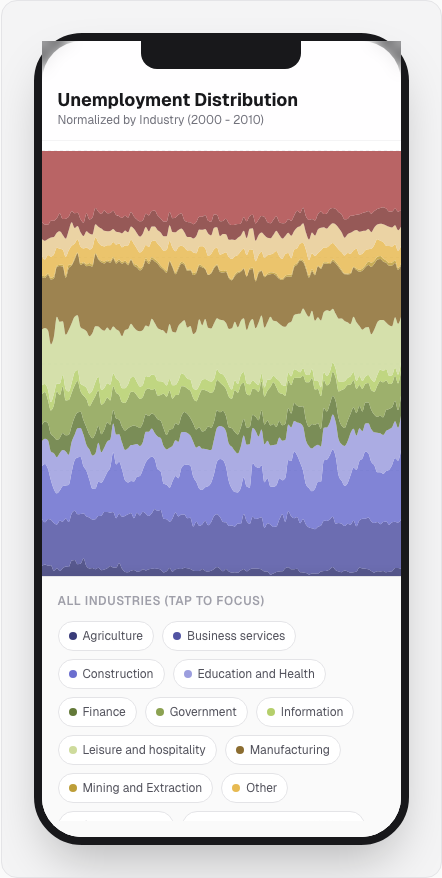
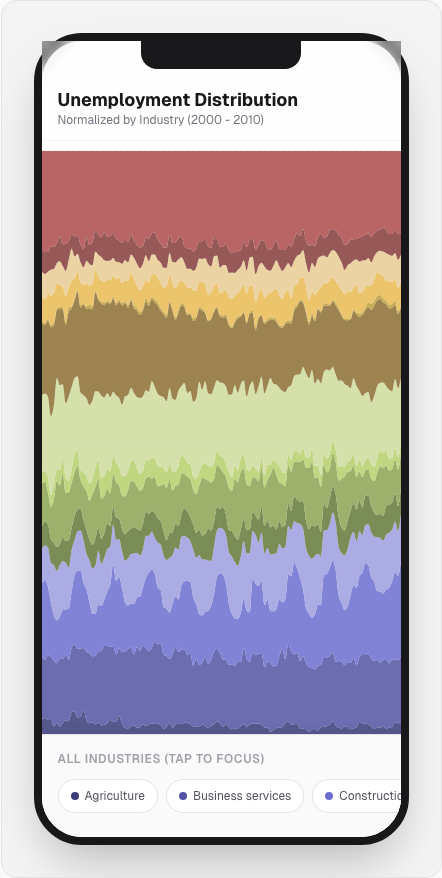
finish vega-lite-01

diff --git a/vega-mobile-projects/vega-lite-01/src/components/Visualization.tsx b/vega-mobile-projects/vega-lite-01/src/components/Visualization.tsx
@@ -1,7 +1,7 @@
 "use client";
 
 import clsx from "clsx";
-import React, { useEffect, useMemo, useState } from "react";
+import { useEffect, useMemo, useState } from "react";
 import {
   Area,
   AreaChart,
@@ -99,8 +99,7 @@ export function Visualization() {
 
   // 2. Process Data (Pivot)
   const { chartData, industries } = useMemo(() => {
-    if (!rawData.length)
-      return { chartData: [], industries: [] };
+    if (!rawData.length) return { chartData: [], industries: [] };
 
     const industriesSet = new Set<string>();
     const groupedByDate: Record<string, ChartDataPoint> = {};
@@ -230,7 +229,7 @@ export function Visualization() {
               dataKey="date"
               hide={true} // Hide X axis to save space, rely on tooltip
             />
-            <YAxis hide={true} domain={[0, 1]} />
+            <YAxis hide={true} domain={[0, 1]} ticks={[0, 0.5, 1]} />
             <Tooltip
               content={() => null}
               cursor={{ stroke: "#666", strokeWidth: 1 }}
@@ -245,11 +244,7 @@ export function Visualization() {
                 stroke="none"
                 fill={getIndustryColor(i)}
                 fillOpacity={
-                  focusedSeries
-                    ? focusedSeries === ind
-                      ? 1
-                      : 0.1
-                    : 0.85
+                  focusedSeries ? (focusedSeries === ind ? 1 : 0.1) : 0.85
                 }
                 animationDuration={300}
                 isAnimationActive={false} // Performance on mobile
@@ -310,14 +305,14 @@ export function Visualization() {
             <div className="text-xs font-semibold text-zinc-400 uppercase tracking-wider mb-3">
               All Industries (Tap to Focus)
             </div>
-            <div className="flex flex-wrap gap-2 max-h-[200px] overflow-y-auto">
+            <div className="flex overflow-x-auto gap-2 pb-2 -mx-4 px-4 scrollbar-hide">
               {industries.map((ind, i) => (
                 <button
                   type="button"
                   key={ind}
                   onClick={() => handleLegendClick(ind)}
                   className={cn(
-                    "flex items-center gap-1.5 px-2.5 py-1.5 rounded-full text-xs transition-all border",
+                    "flex-none flex items-center gap-1.5 px-3 py-2 rounded-full text-xs transition-all border whitespace-nowrap",
                     focusedSeries === ind
                       ? "bg-zinc-800 text-white border-zinc-800 shadow-md transform scale-105"
                       : "bg-white text-zinc-600 border-zinc-200 hover:border-zinc-300",

diff --git a/vega-mobile-projects/vega-lite-01/src/app/page.tsx b/vega-mobile-projects/vega-lite-01/src/app/page.tsx
@@ -3,14 +3,13 @@ import { PhoneFrame } from "@/components/PhoneFrame";
 import { Visualization } from "@/components/Visualization";
 
 export default function Home() {
-	return (
-		<main className="min-h-screen bg-zinc-50 dark:bg-zinc-950 p-8 font-sans flex flex-col items-center justify-center">
-			<div className="space-y-4">
-				<PhoneFrame>
-					<Visualization />
-				</PhoneFrame>
-			</div>
-		</main>
-	);
+  return (
+    <main className="min-h-screen bg-zinc-50 dark:bg-zinc-950 p-8 font-sans flex flex-col items-center justify-center">
+      <div className="space-y-4">
+        <PhoneFrame>
+          <Visualization />
+        </PhoneFrame>
+      </div>
+    </main>
+  );
 }
-
